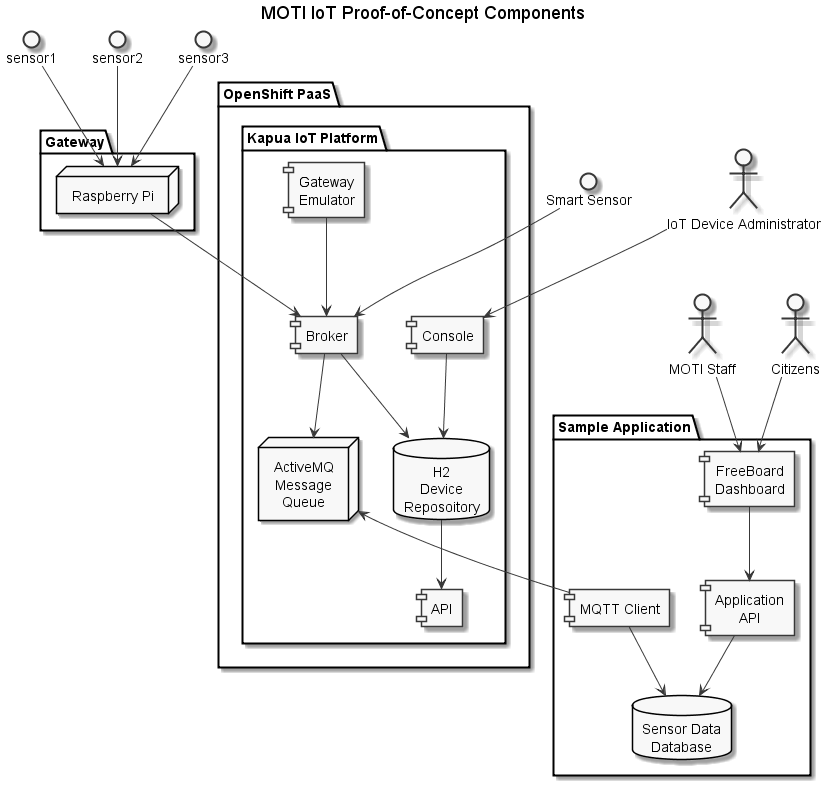
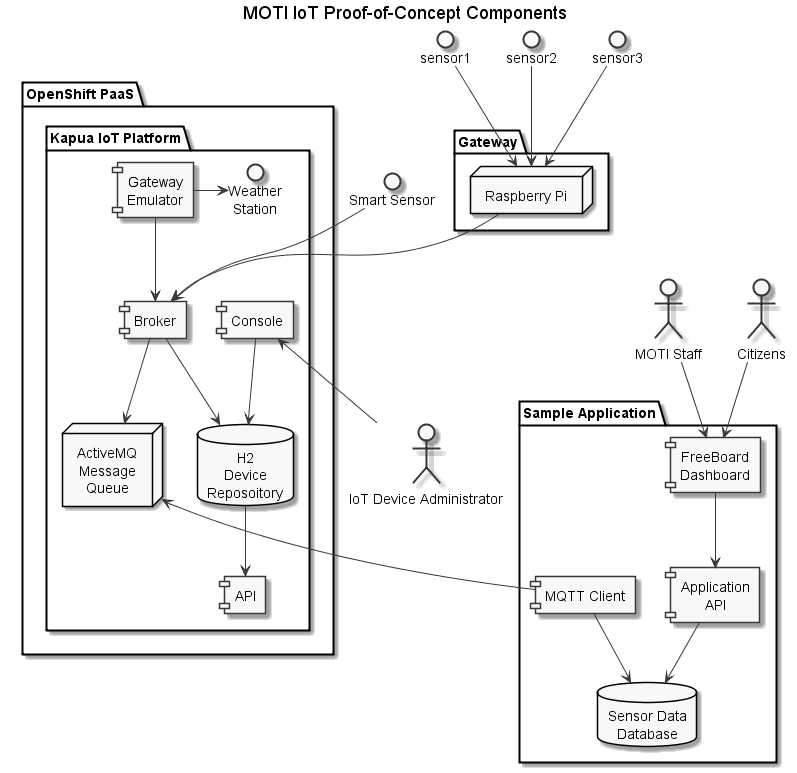
Updates to the Challenge Introduction.

diff --git a/README.md b/README.md
@@ -49,4 +49,33 @@ The following is the layout of the information MOTI has assembled as part of thi
 * Your Ideas: IoT Strategic Direction
 * The MOTI IoT Demo - a repository of work done with Eclipse Kapua, Karu and other Open Source tools for a demo presented at the BC Tech Summit 2017.
 
-#PoC Graphic
+#The PoC Architecture
+
+The image below shows the architecture of the MOTI IoT PoC environment.
+
+<img src="images/demo-iot-architecture.png" alt="" width="70%" >
+
+##IoT Platform
+
+The central component of the architecture is the instance of [Eclipse Kapua]((https://projects.eclipse.org/projects/iot.kapua)) running on the BC Government OpenShift Container Platform.  Kapua includes:
+
+* a device (sensor) repository, handling the full device lifecycle - from self-registration through termination,
+* an [MQTT](http://mqtt.org/) Broker receiving and managing device data, 
+* an API to access Kapua held information, and
+* a Console for accessing/managing the device repository.
+
+##IoT Sensor Emulation and Gateway
+
+An implementation of an [Eclipse Kura](http://www.eclipse.org/kura/) MQTT client emulator feeds data into Kapua via MQTT. The PoC sources data from several sources - primarily a source of DriveBC images and sensor data from a Weather Station Data Logger.  The Weather Station Data Logger is an example of a sensor aggregator - periodically delivering data such as temperature, precipitation, frost depth, barometric pressure and other weather related metrics from a single location. In the future implementation, we anticipate that weather logger data connected to the centralized platform via a Smart Gateway Device - a device capable of delivering data using an industry-standard protocol (such as MQTT) and capable of being remotely managed from the central platform for monitoring, restarts, firmware upgrades and so on.
+
+##IoT Application Data Collection
+
+For output - processing data delivered to the central platform - the PoC implements a [.NET Core](https://dotnet.github.io/) instance of an MQTT client that registers itself with Kapua as a data subscriber. The MQTT client registers as an MQTT subscriber for a set of devices and data received by Kapua from those devices are published to the .NET Core service. The .NET Core service in turn inserts the data values into a Postgres Database.  This emulates a domain specific backend configured to monitor a set of sensors and collect their data for additional processing. The service could be expanded for a variety of purposes - data exception detection/notifications, data quality assessment and so on.
+
+There is a range of possible data stores that might be appropriate based on the characteristics of the data from different sensor types. Relational (like [Postgres](https://www.postgresql.org/)), NoSQL (like [Mongo](https://github.com/mongodb/mongo)) and Time Series (like [InfluxDB](https://github.com/influxdata/influxdb))Data Stores are all candidates for different kinds of use cases. Regardless of the data storage mechanism, the data store, in conjunction with an associated API, is required to merge into the MOTI Enterprise Data Architecture to ensure that there is but a single source of truth for data elements across the Enterprise.
+
+To make the collected, domain-specific data for the PoC available for presentation, a .NET Core service was implemented to provides an API to return data recently pushed into the Postgres database. The exposed API (built using [Swagger](http://swagger.io/)) is an example of an API that might be protected and used internally within MOTI or made available publicly to enable private sector uses.
+
+##IoT Application Visualization
+
+To complete the PoC - enabling direct access to the sensor data for staff and citizens - the Application API was used by an instance of the [Freeboard IoT Dashboard](https://freeboard.io/) to make the data available for the intended data consumers.
